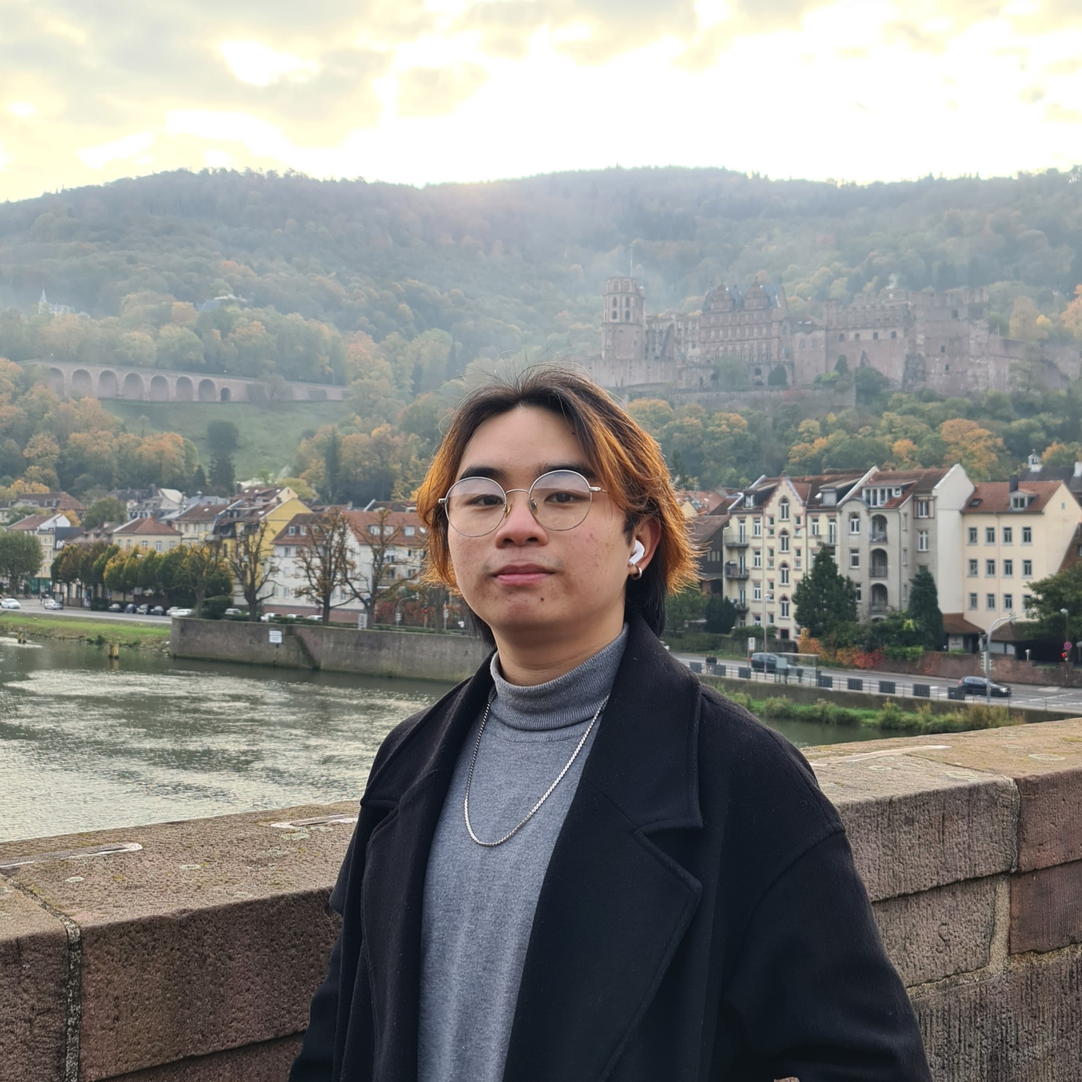
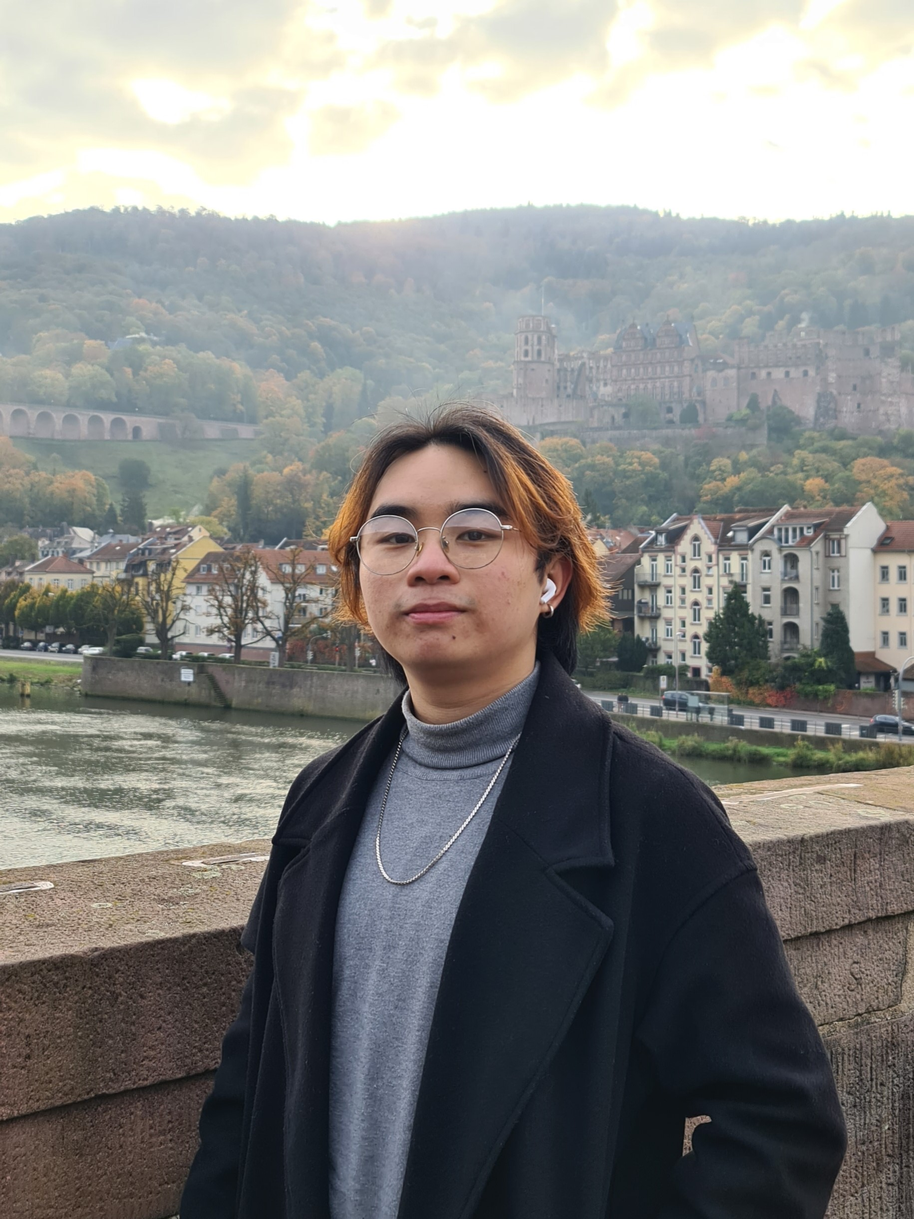
content-fix

diff --git a/src/components/about/About.jsx b/src/components/about/About.jsx
@@ -11,16 +11,25 @@ const About = () => {
       <span className="section__subtitle">My introduction</span>
 
       <div className="about__container container grid">
-        <img src={AboutImg} alt="" className="about__img" />
+        <div className="about__data">
+          <img src={AboutImg} alt="" className="about__img" />
+          <p className="about__caption">Me in Heidelberg, Germany</p>
+        </div>
 
         <div className="about__data">
-          <Info />
-
+        <Info />
           <p className="about__description">
-            I am a senior who is always seeking opportunities for further
-            self-development and is willing to reach further in the future.
-            My goal is to be a software developer, to make surfing and experiencing the internet
-            more interesting.
+            I am a senior majors in Computer Science in Vietnam. 
+            I enjoy working on websites and application development. 
+            I also have interest in User Experience and User Interface design.
+            <br />
+            <br />
+            I am a lifelong learner, inconsistent reader, and a crappy gamer. 
+            I am always seeking opportunities for further self development and reach further in the future.
+            <br />
+            <br />
+            I am currently openning to work for a software engineer - web developer - ux/ui designer
+            as an intern/fresher and willing to contribute my best. 
           </p>
 
           <a download="" href={Resume} className="button button--flex">

diff --git a/src/components/home/Data.jsx b/src/components/home/Data.jsx
@@ -69,8 +69,8 @@ const Data = () => {
         <span><Cursor/></span>
       </h3>
       
-      <p className="home__description">I am a Software Engineer based in Ho Chi Minh City,
-      and I am very passionate with my work!</p>
+      <p className="home__description">Welcome to my portfolio! I am a Senior majoring in Computer Science 
+      based in Ho Chi Minh City, and I am very passionate with my work!</p>
       <a href="#contact" className="button button--flex">
         Say Hello
         <svg

diff --git a/src/components/home/home.css b/src/components/home/home.css
@@ -38,19 +38,8 @@
 .home__subtitle{
     position: relative;
     font-size: var(--h3-font-size);
-    padding-left: 5.4rem;
-    font-weight: var(--font-normal);
+    font-weight: var(--font-medium);
     margin-bottom: var(--mb-1);
-}
-
-.home__subtitle::before{
-    content: '';
-    position: absolute;
-    width: 70px;
-    height: 1px;
-    background-color: var(--text-color);
-    left: 0;
-    top: 1rem;
 }
 
 .home__description{

diff --git a/src/components/about/about.css b/src/components/about/about.css
@@ -10,6 +10,13 @@
     justify-self: center;
 }
 
+.about__caption{
+    font-size: var(--small-font-size);
+    color: var(--text-color);
+    margin-top: var(--mb-0-5);
+    margin-left: 4.8rem;
+}
+
 .about__info{
     grid-template-columns: repeat(3, 140px);
     gap: 0.5rem;
@@ -50,6 +57,10 @@
 .about__container{
     grid-template-columns: 1fr;
     row-gap: 2.5rem;
+}
+
+.about__caption{
+    display: none;
 }
 
 .about__img{
